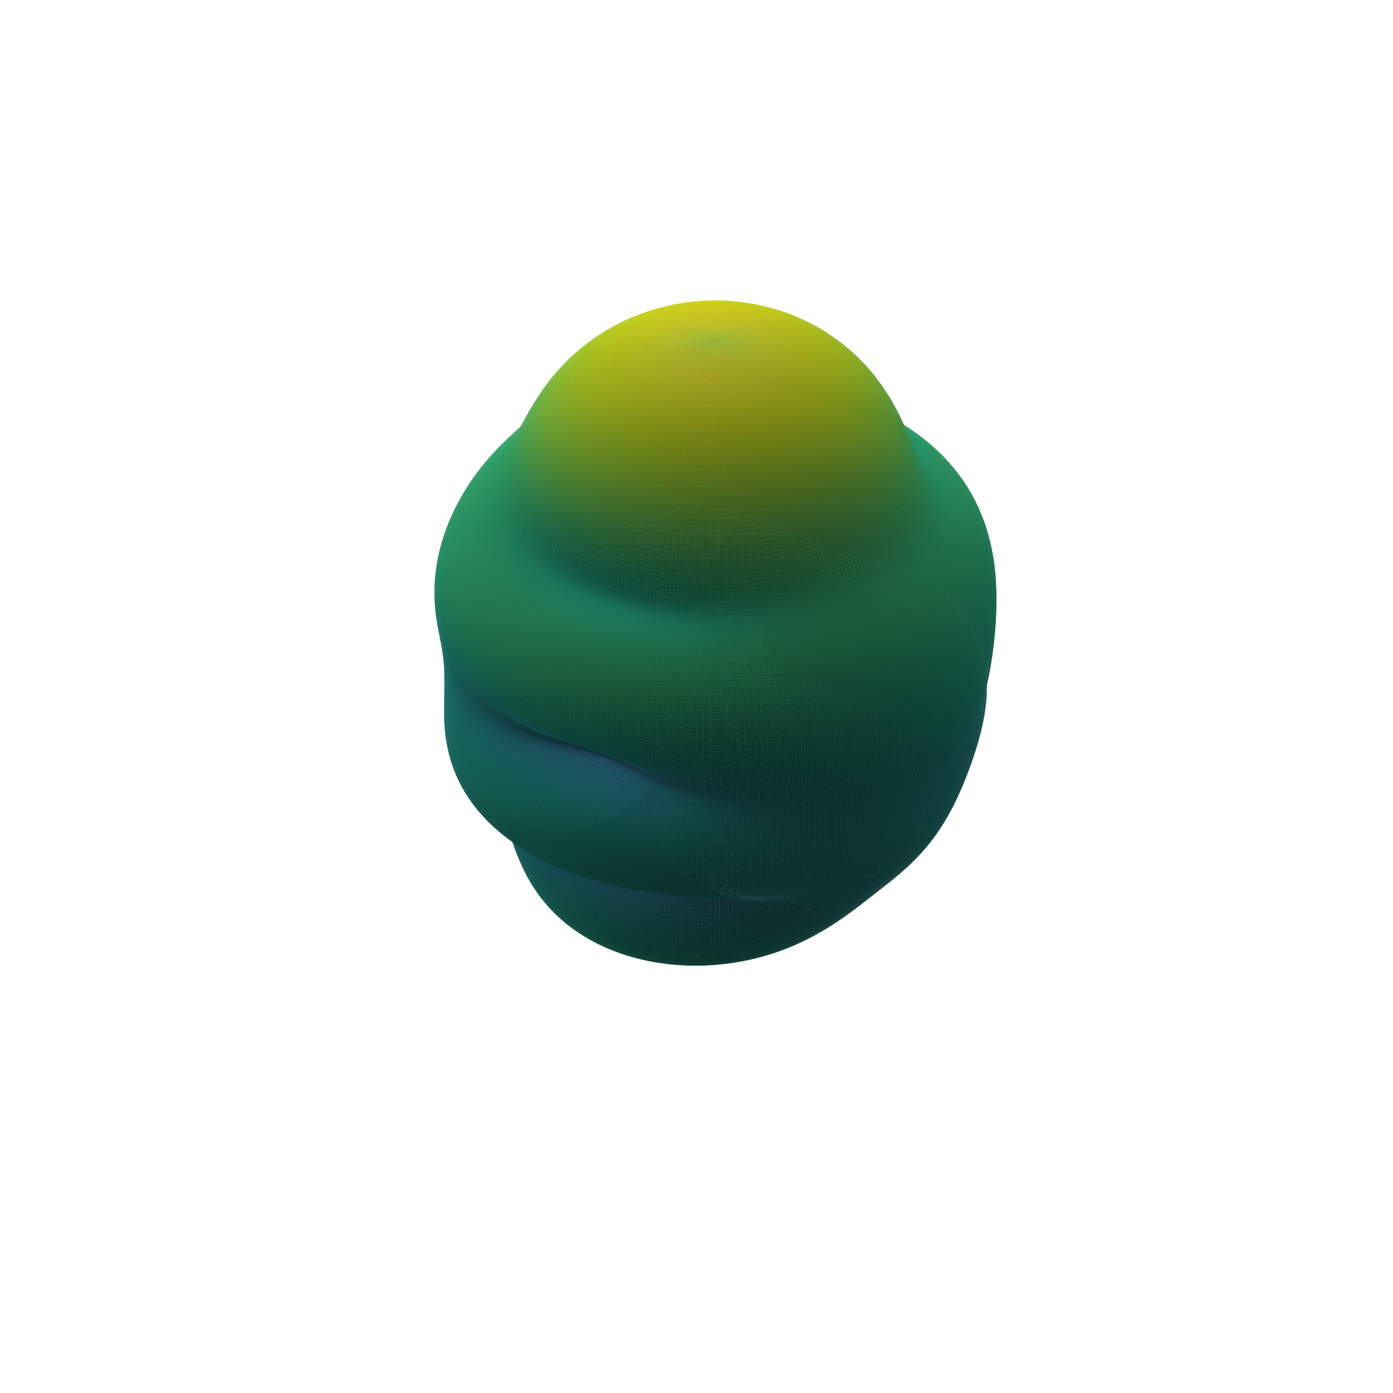
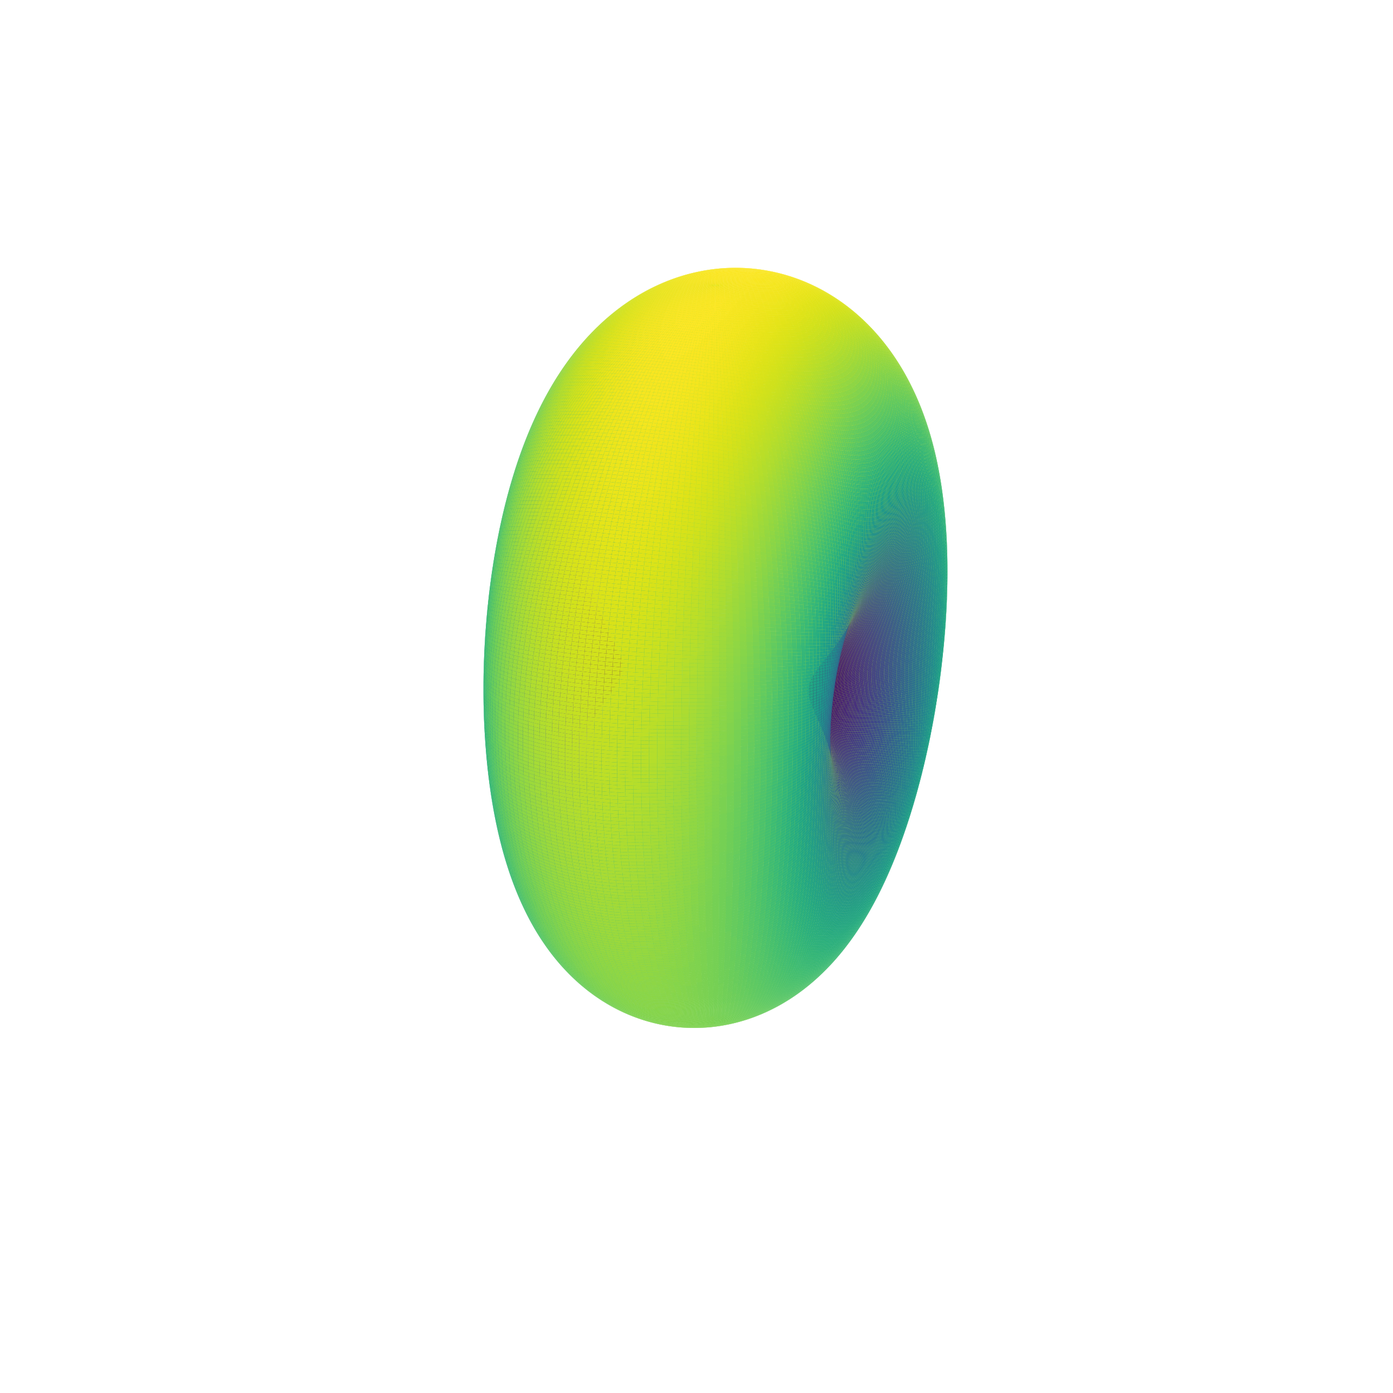
Improve particle explorer defaults and SPF preview

Changed region(s): [[0.311, 0.1866, 0.7154, 0.7465]]

diff --git a/PyMieSimX/gui/assets/dashboard.css b/PyMieSimX/gui/assets/dashboard.css
@@ -2846,7 +2846,7 @@ button.material-name-select:focus-visible {
     justify-content: flex-start;
     flex-wrap: wrap;
     gap: 10px;
-    margin-bottom: 14px;
+    margin-bottom: 0;
 }
 
 .graph-toolbar + .status-banner {
@@ -3666,8 +3666,8 @@ html .plot-options-card .plot-option-control.dashboard-dropdown .Select-control 
 
 .graph-axis-card {
     display: block;
-    margin: 0 14px;
-    padding: 12px 14px;
+    margin: 0;
+    padding: 8px 12px;
     border: 1px solid rgba(96, 110, 123, .20);
     border-radius: 8px;
     background: #f7f8f9;
@@ -3703,14 +3703,14 @@ html .plot-options-card .plot-option-control.dashboard-dropdown .Select-control 
 /* Match Particle Explorer representation controls to the compact Graph Axes
    card used by Parameter Sweep. */
 .single-workspace .representation-card {
-    width: calc(100% - 28px);
+    width: 100%;
     max-width: none;
     height: fit-content;
     min-height: 0;
     margin: 0 14px;
     align-self: start;
     box-sizing: border-box;
-    padding: 12px 14px;
+    padding: 8px 12px;
     border: 1px solid rgba(96, 110, 123, .20);
     border-radius: 8px;
     background: #f7f8f9;
@@ -3741,24 +3741,43 @@ html .single-workspace .representation-card {
 .single-workspace .representation-card-body {
     display: flex;
     flex-direction: column;
-    gap: 12px;
+    gap: 8px;
     height: auto;
     min-height: 0;
-    padding: 0;
+    padding: 0 !important;
 }
 
 .single-workspace .representation-controls-row {
     display: grid;
-    grid-template-columns: minmax(260px, 1fr) 160px;
-    align-items: start;
+    grid-template-columns: minmax(260px, 420px) 150px 110px;
+    align-items: center;
+    justify-content: start;
     gap: 16px;
 }
 
 .single-workspace .nearfield-controls-row {
+    display: flex;
+    flex-direction: column;
+    justify-content: center;
+    gap: 4px;
+    min-height: 48px;
+}
+
+.single-workspace .nearfield-control {
     display: grid;
-    grid-template-columns: 100px 140px;
-    align-items: start;
-    gap: 16px;
+    grid-template-columns: minmax(74px, 1fr) 44px;
+    align-items: center;
+    gap: 8px;
+    height: 24px;
+}
+
+.single-workspace .nearfield-control .nearfield-switch {
+    margin: 0;
+}
+
+.single-workspace .nearfield-control .nearfield-switch label {
+    min-height: 24px;
+    padding-left: 42px;
 }
 
 .single-workspace .representation-card-body .field-block {
@@ -3773,10 +3792,24 @@ html .single-workspace .representation-card {
     font-weight: 650;
 }
 
+.single-workspace .representation-card-body .nearfield-control > label {
+    display: flex;
+    align-items: center;
+    margin: 0;
+    white-space: nowrap;
+}
+
 .single-workspace .representation-card-body .field-input {
     width: 100%;
     min-width: 0;
     box-sizing: border-box;
+}
+
+.single-workspace #single-sampling {
+    height: 34px !important;
+    min-height: 34px !important;
+    padding-top: 4px;
+    padding-bottom: 4px;
 }
 
 .single-workspace .representation-card-body .dashboard-dropdown {
@@ -3791,9 +3824,14 @@ html .single-workspace .representation-card {
     max-height: 400px !important;
 }
 
-@media (max-width: 620px) {
-    .single-workspace .representation-card-body {
+@media (max-width: 760px) {
+    .single-workspace .representation-controls-row {
         grid-template-columns: 1fr;
+        align-items: stretch;
+    }
+
+    .single-workspace .nearfield-controls-row {
+        max-width: 180px;
     }
 }
 

diff --git a/PyMieSimX/gui/callbacks.py b/PyMieSimX/gui/callbacks.py
@@ -75,9 +75,17 @@ def register_callbacks(app: Dash, default_measure_options: list[str]) -> None:
         logo = "/assets/pymiesim-logo.svg" if mode == "light" else "/assets/pymiesim-logo-dark.svg"
         return (THEME_LIGHT if mode == "light" else THEME_DARK), {"theme": mode}, mode, logo
 
-    def _handle_sidebar_tabs(tab_ids: list[str], colors: list[str], current_class: str | None, current_active: str | None):
+    def _handle_sidebar_tabs(tab_ids: list[str], colors: list[str], current_class: str | None, current_active: str | None, sidebar_id: str):
         """Shared logic: switch the active tab/panel, toggling the sidebar open if needed."""
-        clicked = ctx.triggered_id
+        clicked = next((tab_id for tab_id in tab_ids if f"{tab_id}.n_clicks" in ctx.triggered_prop_ids), ctx.triggered_id)
+        sidebar_was_clicked = f"{sidebar_id}.n_clicks" in ctx.triggered_prop_ids
+        tab_was_clicked = clicked in tab_ids
+        if sidebar_was_clicked and not tab_was_clicked:
+            return (no_update,) * (2 + 2 * len(tab_ids))
+        if clicked == "page-content" and not sidebar_was_clicked or clicked == "dashboard-sidebar":
+            tab_classes = [f"sidebar-tab sidebar-tab--{color}" for color in colors]
+            panel_styles = [{"display": "none"} for _ in tab_ids]
+            return "right-sidebar-panel", current_active, *tab_classes, *panel_styles
         is_open = "open" in (current_class or "").split()
         if clicked == current_active and is_open:
             new_open, new_active = False, current_active
@@ -103,13 +111,16 @@ def register_callbacks(app: Dash, default_measure_options: list[str]) -> None:
         Input("single-tab-source", "n_clicks"),
         Input("single-tab-scatterer", "n_clicks"),
         Input("single-tab-plot-options", "n_clicks"),
+        Input("page-content", "n_clicks"),
+        Input("dashboard-sidebar", "n_clicks"),
+        Input("single-right-sidebar", "n_clicks"),
         State("single-right-sidebar", "className"),
         State("single-right-sidebar-active", "data"),
         prevent_initial_call=True,
     )
-    def _handle_single_sidebar_tabs(_source_clicks, _scatterer_clicks, _plot_clicks, current_class, current_active):
+    def _handle_single_sidebar_tabs(_source_clicks, _scatterer_clicks, _plot_clicks, _page_clicks, _sidebar_clicks, _right_sidebar_clicks, current_class, current_active):
         tab_ids = ["single-tab-source", "single-tab-scatterer", "single-tab-plot-options"]
-        return _handle_sidebar_tabs(tab_ids, ["yellow", "blue", "purple"], current_class, current_active)
+        return _handle_sidebar_tabs(tab_ids, ["yellow", "blue", "purple"], current_class, current_active, "single-right-sidebar")
 
     @app.callback(
         Output("experiment-right-sidebar", "className"),
@@ -126,13 +137,16 @@ def register_callbacks(app: Dash, default_measure_options: list[str]) -> None:
         Input("experiment-tab-scatterer", "n_clicks"),
         Input("experiment-tab-detector", "n_clicks"),
         Input("experiment-tab-plot-options", "n_clicks"),
+        Input("page-content", "n_clicks"),
+        Input("dashboard-sidebar", "n_clicks"),
+        Input("experiment-right-sidebar", "n_clicks"),
         State("experiment-right-sidebar", "className"),
         State("experiment-right-sidebar-active", "data"),
         prevent_initial_call=True,
     )
-    def _handle_experiment_sidebar_tabs(_source_clicks, _scatterer_clicks, _detector_clicks, _plot_clicks, current_class, current_active):
+    def _handle_experiment_sidebar_tabs(_source_clicks, _scatterer_clicks, _detector_clicks, _plot_clicks, _page_clicks, _sidebar_clicks, _right_sidebar_clicks, current_class, current_active):
         tab_ids = ["experiment-tab-source", "experiment-tab-scatterer", "experiment-tab-detector", "experiment-tab-plot-options"]
-        return _handle_sidebar_tabs(tab_ids, ["yellow", "blue", "cyan", "purple"], current_class, current_active)
+        return _handle_sidebar_tabs(tab_ids, ["yellow", "blue", "cyan", "purple"], current_class, current_active, "experiment-right-sidebar")
 
 
     @app.callback(
@@ -747,7 +761,7 @@ def register_callbacks(app: Dash, default_measure_options: list[str]) -> None:
                 {"label": "3D radial surface", "value": "3d_radial"},
             ])
         is_nearfield = str(representation or "").startswith("nearfields")
-        nearfield_style = {"display": "block" if is_nearfield else "none"}
+        nearfield_style = {} if is_nearfield else {"display": "none"}
         return options, current_projection if supports_3d and current_projection in {"3d", "3d_radial"} else "2d", nearfield_style, nearfield_style, nearfield_style
 
     @app.callback(

diff --git a/PyMieSimX/gui/pages/single/sections/representations.py b/PyMieSimX/gui/pages/single/sections/representations.py
@@ -19,16 +19,16 @@ def build_representation_section():
                     html.Div(
                         className="representation-controls-row",
                         children=[
-                    html.Div(className="field-block", children=[html.Label("Representation", htmlFor="single-representation"), dcc.Dropdown(id="single-representation", className="dashboard-dropdown", options=[{"label": "S1 / S2 amplitudes", "value": "s1s2"}, {"label": "Stokes I intensity", "value": "stokes"}, {"label": "Stokes Q", "value": "stokes_q"}, {"label": "Stokes U", "value": "stokes_u"}, {"label": "Stokes V", "value": "stokes_v"}, {"label": "Scattering phase function", "value": "spf"}, {"label": "Far-field intensity", "value": "farfields"}, {"label": "Near-field |E|", "value": "nearfields"}, {"label": "Near-field Ex", "value": "nearfields_ex"}, {"label": "Near-field Ey", "value": "nearfields_ey"}, {"label": "Near-field Ez", "value": "nearfields_ez"}], value=DEFAULT_WORKSPACE_SETTINGS["particle_explorer"]["representation"], clearable=False, searchable=False, optionHeight=38, maxHeight=400, persistence=True, persistence_type="session")]),
+                            html.Div(className="field-block representation-field", children=[html.Label("Representation", htmlFor="single-representation"), dcc.Dropdown(id="single-representation", className="dashboard-dropdown", options=[{"label": "S1 / S2 amplitudes", "value": "s1s2"}, {"label": "Stokes I intensity", "value": "stokes"}, {"label": "Stokes Q", "value": "stokes_q"}, {"label": "Stokes U", "value": "stokes_u"}, {"label": "Stokes V", "value": "stokes_v"}, {"label": "Scattering phase function", "value": "spf"}, {"label": "Far-field intensity", "value": "farfields"}, {"label": "Near-field |E|", "value": "nearfields"}, {"label": "Near-field Ex", "value": "nearfields_ex"}, {"label": "Near-field Ey", "value": "nearfields_ey"}, {"label": "Near-field Ez", "value": "nearfields_ez"}], value=DEFAULT_WORKSPACE_SETTINGS["particle_explorer"]["representation"], clearable=False, searchable=False, optionHeight=38, maxHeight=400, persistence=True, persistence_type="session")]),
+                            html.Div(
+                                id="single-nearfield-controls-row",
+                                className="nearfield-controls-row",
+                                children=[
+                                    html.Div(id="single-nearfield-mode-field", className="field-block nearfield-control", children=[html.Label("Abs", htmlFor="single-nearfield-mode"), dcc.Checklist(id="single-nearfield-mode", options=[{"label": "", "value": "absolute"}], value=["absolute"], className="nearfield-switch", persistence=True, persistence_type="session")]),
+                                    html.Div(id="single-nearfield-incident-field", className="field-block nearfield-control", children=[html.Label("Incident field", htmlFor="single-include-incident-field"), dcc.Checklist(id="single-include-incident-field", options=[{"label": "", "value": "include"}], value=["include"], className="nearfield-switch", persistence=True, persistence_type="session")]),
+                                ],
+                            ),
                             html.Div(className="field-block sampling-field", children=[html.Label("Angular sampling", htmlFor="single-sampling"), dcc.Input(id="single-sampling", type="text", inputMode="numeric", value=str(DEFAULT_WORKSPACE_SETTINGS["particle_explorer"]["sampling"]), placeholder=str(DEFAULT_WORKSPACE_SETTINGS["particle_explorer"]["sampling"]), debounce=True, className="field-input", persistence=True, persistence_type="session")]),
-                        ],
-                    ),
-                    html.Div(
-                        id="single-nearfield-controls-row",
-                        className="nearfield-controls-row",
-                        children=[
-                            html.Div(id="single-nearfield-mode-field", className="field-block", children=[html.Label("Abs", htmlFor="single-nearfield-mode"), dcc.Checklist(id="single-nearfield-mode", options=[{"label": "", "value": "absolute"}], value=["absolute"], className="nearfield-switch", persistence=True, persistence_type="session")]),
-                            html.Div(id="single-nearfield-incident-field", className="field-block", children=[html.Label("Incident field", htmlFor="single-include-incident-field"), dcc.Checklist(id="single-include-incident-field", options=[{"label": "", "value": "include"}], value=["include"], className="nearfield-switch", persistence=True, persistence_type="session")]),
                         ],
                     ),
                 ],

diff --git a/tools/generate_home_spf.py b/tools/generate_home_spf.py
@@ -11,8 +11,8 @@ from PyMieSimX.gui.computation import build_single_figure
 
 
 OUTPUT_PATH = Path(__file__).parents[1] / "PyMieSimX" / "gui" / "assets" / "home-spf-radial.png"
-CAMERA_ELEVATION = 35
-CAMERA_AZIMUTH = 32
+CAMERA_ELEVATION = 18
+CAMERA_AZIMUTH = 18
 
 
 def main() -> None:
@@ -20,7 +20,7 @@ def main() -> None:
         source_type="Gaussian",
         source_values={},
         scatterer_type="Sphere",
-        scatterer_values={"diameter": "1000"},
+        scatterer_values={"diameter": "100"},
         representation="spf",
         projection="3d_radial",
         sampling=300,
@@ -28,10 +28,9 @@ def main() -> None:
     trace = figure.data[0]
     intensity = trace.surfacecolor
 
-    # A larger particle produces a highly lobed SPF whose magnitude spans
-    # several orders of magnitude; a linear radius collapses almost every
-    # lobe against the strong forward-scattering peak, so re-derive the
-    # surface with a log-scaled radius to keep the side lobes visible.
+    # Keep the small-particle preview gentle and readable: a linear radial
+    # scale preserves the dipole-like shape without exaggerating numerical
+    # noise or collapsing the surface into a featureless sphere.
     values = np.asarray(intensity, dtype=float)
     azimuth = np.deg2rad(np.linspace(-180.0, 180.0, values.shape[1]))
     polar = np.deg2rad(np.linspace(-90.0, 90.0, values.shape[0]))
@@ -40,16 +39,14 @@ def main() -> None:
     sphere_y = np.cos(polar_grid) * np.sin(azimuth_grid)
     sphere_z = np.sin(polar_grid)
 
-    log_values = np.log10(np.clip(values, 1e-12, None))
-    lower, upper = float(log_values.min()), float(log_values.max())
-    radius = 0.15 + 0.35 * (log_values - lower) / (upper - lower) if upper > lower else np.ones_like(log_values)
+    lower, upper = float(values.min()), float(values.max())
+    normalized = (values - lower) / (upper - lower) if upper > lower else np.ones_like(values)
+    radius = 0.24 + 0.76 * normalized
 
     x_values = sphere_x * radius
     y_values = sphere_y * radius
     z_values = sphere_z * radius
-    colors = cm.viridis(
-        Normalize(vmin=lower, vmax=upper)(log_values)
-    )
+    colors = cm.viridis(Normalize(vmin=lower, vmax=upper)(values))
 
     output = plt.figure(figsize=(10, 8), dpi=320, facecolor="none")
     axes = output.add_subplot(111, projection="3d")
@@ -63,7 +60,7 @@ def main() -> None:
         ccount=x_values.shape[1],
         linewidth=0,
         antialiased=True,
-        shade=True,
+        shade=False,
     )
     axes.set_proj_type("ortho")
     axes.view_init(elev=CAMERA_ELEVATION, azim=CAMERA_AZIMUTH)

diff --git a/PyMieSimX/gui/pages/single/page.py b/PyMieSimX/gui/pages/single/page.py
@@ -2,6 +2,7 @@
 
 from dash import dcc, html
 
+from PyMieSimX.gui.defaults import DEFAULT_WORKSPACE_SETTINGS
 from PyMieSimX.gui.layout import PLOT_CONFIG, _plot_options_card, build_plot_options_sidebar, build_tabbed_sidebar
 
 from .sections import build_representation_section, build_scatterer_section, build_source_section
@@ -18,6 +19,7 @@ def build_single_page(plot_settings: dict | None = None):
                     html.Section(
                         className="result-column",
                         children=[
+                            build_representation_section(),
                             html.Div(
                                 className="graph-toolbar",
                                 children=[
@@ -38,7 +40,6 @@ def build_single_page(plot_settings: dict | None = None):
                                 ],
                             ),
                             html.Section(className="panel graph-panel single-graph-panel", children=[dcc.Loading(id="single-graph-loading", type="circle", color="#4f8df7", custom_spinner=html.Div("Computing…", className="plot-computing-indicator"), delay_show=150, delay_hide=150, children=dcc.Graph(id="single-graph", config=PLOT_CONFIG))]),
-                            build_representation_section(),
                         ],
                     ),
                 ],
@@ -49,7 +50,7 @@ def build_single_page(plot_settings: dict | None = None):
                 [
                     {"tab_id": "single-tab-source", "panel_id": "single-panel-source", "label": "Source", "color": "yellow", "content": build_source_section(), "active": False},
                     {"tab_id": "single-tab-scatterer", "panel_id": "single-panel-scatterer", "label": "Scatterer", "color": "blue", "content": build_scatterer_section(), "active": False},
-                    {"tab_id": "single-tab-plot-options", "panel_id": "single-panel-plot-options", "label": "Plot options", "color": "purple", "content": build_plot_options_sidebar("single-plot-options-container", _plot_options_card("single", plot_settings or {})), "active": False},
+                    {"tab_id": "single-tab-plot-options", "panel_id": "single-panel-plot-options", "label": "Plot options", "color": "purple", "content": build_plot_options_sidebar("single-plot-options-container", _plot_options_card("single", plot_settings or {}, representation=DEFAULT_WORKSPACE_SETTINGS["particle_explorer"]["representation"], projection=DEFAULT_WORKSPACE_SETTINGS["particle_explorer"]["projection"])), "active": False},
                 ],
             ),
         ],

diff --git a/PyMieSimX/gui/layout.py b/PyMieSimX/gui/layout.py
@@ -144,6 +144,7 @@ def build_tabbed_sidebar(sidebar_id: str, tabs: list[dict]):
             html.Aside(
                 id=sidebar_id,
                 className="right-sidebar-panel" + (" open" if any_active else ""),
+                n_clicks=0,
                 children=[
                     html.Div(
                         id=tab["panel_id"],
@@ -159,7 +160,7 @@ def build_tabbed_sidebar(sidebar_id: str, tabs: list[dict]):
 
 
 def _x_axis_card(default_measure_options: list[str]):
-    """Build the post-plot X/Y axis selectors, separate from run controls."""
+    """Build the pre-plot X/Y axis selectors, separate from run controls."""
     return html.Section(
         className="graph-axis-card",
         children=[
@@ -234,6 +235,7 @@ def create_layout(default_measure_options: list[str]):
                     html.Main(
                         id="page-content",
                         className="dashboard-main",
+                        n_clicks=0,
                         children=[],
                     ),
                 ],
@@ -283,7 +285,9 @@ def build_page_with_footer(page):
 def _build_sidebar():
     """Create the dashboard sidebar."""
     return html.Aside(
+        id="dashboard-sidebar",
         className="dashboard-sidebar",
+        n_clicks=0,
         children=[
             html.Div(
                 className="sidebar-brand",

diff --git a/PyMieSimX/gui/computation.py b/PyMieSimX/gui/computation.py
@@ -288,7 +288,7 @@ def build_single_figure(
     scatterer_values: Dict[str, Any],
     representation: str,
     sampling: int,
-    projection: str = "2d",
+    projection: str = "3d_radial",
     nearfield_mode: str = "absolute",
     include_incident_field: bool = True,
     plot_settings: dict[str, Any] | None = None,
@@ -391,7 +391,14 @@ def build_single_figure(
                 else:
                     surface_x, surface_y, surface_z = sphere_x, sphere_y, sphere_z
                 figure = go.Figure(data=go.Surface(x=surface_x, y=surface_y, z=surface_z, surfacecolor=surface_values, colorscale="Viridis", colorbar={"title": value_unit}))
-                figure.update_layout(scene={"xaxis_title": "x", "yaxis_title": "y", "zaxis_title": "z", "aspectmode": "cube"})
+                figure.update_layout(
+                    scene={
+                        "xaxis": {"title": "x", "range": [-1, 1]},
+                        "yaxis": {"title": "y", "range": [-1, 1]},
+                        "zaxis": {"title": "z", "range": [-1, 1]},
+                        "aspectmode": "cube",
+                    }
+                )
             else:
                 figure = go.Figure(data=go.Heatmap(x=azimuth, y=polar, z=values, colorscale="Viridis", colorbar={"title": value_unit}))
                 figure.update_xaxes(title="Azimuth angle [degree]")

diff --git a/PyMieSimX/gui/pages/experiment/page.py b/PyMieSimX/gui/pages/experiment/page.py
@@ -23,6 +23,7 @@ def build_experiment_page(default_measure_options: list[str], plot_settings: dic
                     html.Section(
                         className="result-column",
                         children=[
+                            _x_axis_card(default_measure_options),
                             html.Div(
                                 className="graph-toolbar",
                                 children=[
@@ -43,7 +44,6 @@ def build_experiment_page(default_measure_options: list[str], plot_settings: dic
                                 ],
                             ),
                             html.Section(className="panel graph-panel", children=[dcc.Loading(id="result-graph-loading", type="circle", color="#4f8df7", custom_spinner=html.Div("Computing…", className="plot-computing-indicator"), delay_show=150, delay_hide=150, children=dcc.Graph(id="result-graph", config=PLOT_CONFIG))]),
-                            _x_axis_card(default_measure_options),
                         ],
                     ),
                 ],
